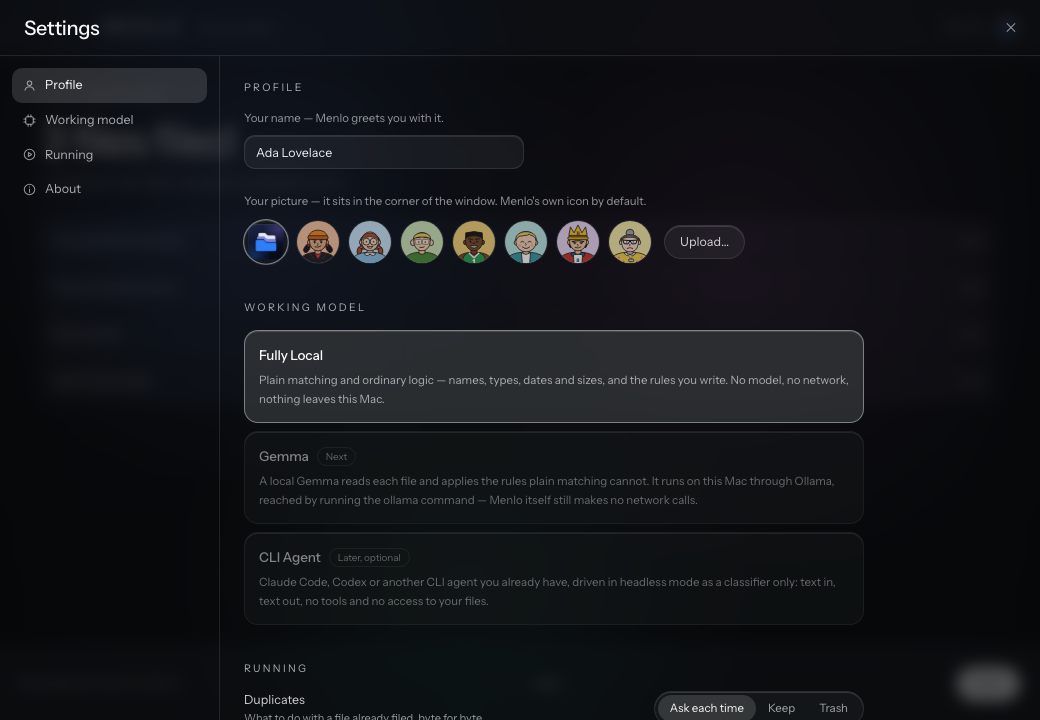
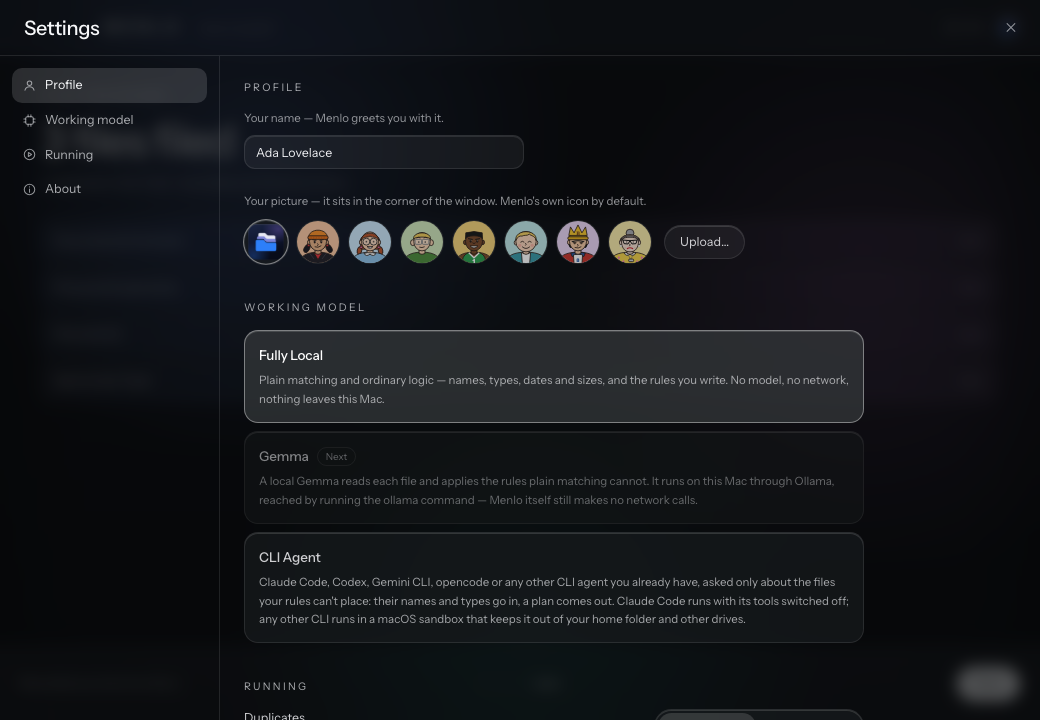
docs(readme): tidy in place, new folders, rule memory, CLI agents and the sandbox
Refreshes the Rules memory and Settings screenshots from the e2e screen run.

Changed region(s): [[0.2462, 0.7639, 0.8, 0.8861], [0.6154, 0.9472, 0.8308, 1.0], [0.2154, 0.9167, 0.4615, 1.0]]

diff --git a/README.md b/README.md
@@ -33,8 +33,13 @@ landing before a single file moves. Every run can be undone.
 
 It works with **no AI at all**. Rules are read with ordinary matching — names, file
 types, dates, sizes — and Menlo tells you plainly when a rule needs a model to apply.
-A local model (Gemma, through Ollama) is next; a CLI agent like Claude Code will be an
-option, never a requirement.
+If you already use a coding CLI — Claude Code, Codex, Gemini CLI, opencode or any other —
+Menlo can ask it about the files your rules can't place. That is optional, never a
+requirement, and a local model (Gemma, through Ollama) is next.
+
+It can also **tidy a folder in place**: point it at Documents → Documents and it files
+the loose files into Documents' own subfolders, and suggests new subfolders for the
+ones nothing fits yet. Every decision you approve teaches it a rule for next time.
 
 ---
 
@@ -42,7 +47,9 @@ option, never a requirement.
 
 - [Install](#install) — download, with Claude Code, or from source
 - [How it works](#how-it-works)
+- [Tidying a folder in place](#tidying-a-folder-in-place)
 - [Writing rules](#writing-rules)
+- [How Menlo remembers](#how-menlo-remembers)
 - [Duplicates and renaming](#duplicates-and-renaming)
 - [Safety](#safety)
 - [Working models](#working-models)
@@ -132,7 +139,8 @@ A run is one pass through four stages. Nothing moves until the third.
 Pick the folders to clear and the folders things can land in. **Add folder** on either
 side takes any folder on your Mac. On first launch Menlo sets itself up from the folders
 you already have — Downloads and Desktop to clear; Documents, Pictures, Movies, Music and
-Developer to file into, with their existing subfolders.
+Developer to file into, with their existing subfolders. A folder can be on both sides at
+once — that tidies it in place (see [below](#tidying-a-folder-in-place)).
 
 ![Choose](docs/screenshots/choose.png)
 
@@ -152,7 +160,9 @@ byte, are raised first — keep them where they are, or send the extra copy to t
 
 ![Duplicates](docs/screenshots/duplicates.png)
 
-Then the preview: every landing, every new name, before anything happens.
+Then the preview: every landing, every new name, before anything happens. When Menlo
+thinks a group of files deserves a folder of its own, the preview offers it there — see
+[New folders](#new-folders).
 
 ![Preview](docs/screenshots/preview.png)
 
@@ -171,6 +181,36 @@ Every run is kept. Send back a whole run, one folder of it, or just what it put 
 Trash. A file you have edited since is left alone rather than overwritten.
 
 ![Runs](docs/screenshots/runs.png)
+
+---
+
+## Tidying a folder in place
+
+Add a folder as both a place to clear and a place to file into — Documents → Documents —
+and Menlo sorts the files lying loose in it:
+
+- **Into its own subfolders.** A loose `Contracts lease.pdf` goes into
+  Documents/Contracts, by your rules or by name. Subfolders you made in Finder since
+  adding the folder are picked up at the start of every run.
+- **Or somewhere better.** A photo sitting in Documents can still go to Pictures.
+- **Or nowhere.** A file nothing fits stays exactly where it is, marked *"Already in
+  Documents; none of its folders fit yet."* A file is never "moved" into the folder it is
+  already in.
+- Files already inside a subfolder are never touched — only the loose ones.
+
+### New folders
+
+What nothing fits yet is grouped, and each group is offered as a new subfolder in the
+preview, with **Create** and **Not now**:
+
+- **A word the names share** — three invoice PDFs → *Documents / Invoice*.
+- **A CLI agent's suggestion**, when you use one, for files it thinks belong together.
+- **A kind of file out of place** — three or more images loose in Documents →
+  *Documents / Images*.
+
+**Create** makes the folder and files the group into it. Nothing is created until you
+press it. A folder made from a shared word is also remembered as a rule, so next time
+those files go there on their own.
 
 ---
 
@@ -194,7 +234,12 @@ honest gap today: the most natural phrasing, like *"Invoices go here"* or *"Tax 
 has no cue word yet, so it waits for a model. Say *"anything named invoice"* instead,
 until that lands (see [Roadmap](#roadmap)).
 
-Rules Memory shows every rule, by folder, with what Menlo understood from it:
+**Rules memory** lists every folder in your home folder — Documents, Pictures, Movies,
+Music, Downloads, Desktop and the rest — with their subfolders inside. Main folders
+fold open and closed; folders Menlo already files into start open. Each folder shows the
+rules you wrote, what Menlo understood from each, and the rules it has learned. Writing
+a rule for a folder Menlo does not use yet adds it. The list is read from disk only while
+the page is open, and reading it changes nothing.
 
 ![Rules memory](docs/screenshots/rules.png)
 
@@ -203,6 +248,30 @@ agreement"* reaches Documents/Contracts even though the file is a PDF. A rule wi
 a date, size or age can only choose *between the subfolders of the folder a file is
 already going to*, so *"anything dated 2026"* on Documents/Invoices 2026 never pulls in
 your 2026 holiday photos.
+
+---
+
+## How Menlo remembers
+
+Every run you approve can teach Menlo a pattern rule — `the name matches *invoice*` →
+Documents/Invoices — which then files those files with no model and no question. A
+learned rule outranks the built-in type map, so a careless one would do real damage
+(*"every PDF → Finance"*, learned from one invoice). So each one is checked before it is
+kept:
+
+- **Too broad is refused.** A bare common type (`.pdf`, `.jpg`) or a pattern with no
+  distinctive word (`IMG_*`) is never learned.
+- **Your latest decision wins.** The same pattern approved into a different folder moves
+  the old rule rather than keeping two that disagree.
+- **No repeats.** A pattern an existing rule already catches is not added.
+- **Alike rules merge.** Three or more learned rules for one folder that share a word
+  fold into one: `Invoice_Aug*`, `Invoice_Sep*` and `invoice-2026*` become `*invoice*`.
+- **Shared words are noticed.** When a CLI agent places two or more files with the same
+  distinctive word in one folder and you approve them, that word becomes the rule.
+- Only moves you approved as proposed count; anything you leave unticked teaches nothing.
+
+Learned rules appear in Rules memory under **Learned from what you approved**, each with
+**Forget**.
 
 ---
 
@@ -243,9 +312,17 @@ run restores the original name.
   unless you opt in. Paths are checked after symlink resolution, and again right before
   each move.
 - **No network code.** The Rust core makes no network calls; CI fails the build if an
-  HTTP client is ever added to it.
+  HTTP client is ever added to it. A CLI agent you choose talks to its own provider, in
+  its own process — Menlo never does.
 - **A model can never name a path.** When one is used, it picks a folder *key* from a
-  list Menlo supplied; Menlo maps the key to a folder you added.
+  list Menlo supplied; Menlo maps the key to a folder you added. Its whole reply is
+  rejected if a single entry fails a check.
+- **A CLI agent sees names, never contents.** It is sent the names, types, sizes and dates
+  of the files your rules could not place — never file contents, never where they live.
+  Claude Code is run with every tool switched off. Any other CLI runs inside a macOS
+  sandbox (`sandbox-exec`) that blocks your home folder and other drives, apart from its
+  own settings and install folders — so a file named to trick it into opening `~/.ssh`
+  gets *Operation not permitted*.
 
 ---
 
@@ -261,6 +338,28 @@ Chosen in Settings.
 
 ![Settings](docs/screenshots/settings.png)
 
+### Using a CLI agent
+
+Choose **CLI Agent** in Settings and Menlo lists the CLIs it knows — Claude Code, Codex
+CLI, Gemini CLI, opencode, Qwen Code and Cursor Agent — with where each was found on
+this Mac. **Other command** takes any CLI that reads a prompt on standard input and
+prints its answer (e.g. `qwen -p`); it is run directly, never through a shell.
+**Check it works** sends a tiny test prompt with nothing about your files in it.
+
+On a run, your rules go first. Only what they could not place is sent, in batches, and
+the answers are folded into the preview:
+
+- A confident answer is ticked; a guess (below 70% confidence) is shown but left
+  unticked, so it stays put unless you tick it.
+- The preview says what the CLI did — *"Claude Code placed 12 of the 15 files the rules
+  couldn't"* — or why it could not run, in which case the plan is your rules' moves only.
+- Menlo finds CLIs installed through Homebrew, npm, bun or `~/.local/bin` even when it is
+  opened from the Dock, where macOS hides your terminal's `PATH`.
+
+Gemini CLI, opencode, Qwen Code and Cursor Agent are supported but have so far been
+tested less than Claude Code and Codex. If one needs a settings folder the sandbox does
+not open, the preview shows its error and the run falls back to your rules.
+
 ---
 
 ## Development
@@ -269,7 +368,7 @@ Chosen in Settings.
 npm install
 npm run tauri dev          # the app, with hot reload
 
-cargo test  --manifest-path src-tauri/Cargo.toml   # 134 Rust tests
+cargo test  --manifest-path src-tauri/Cargo.toml   # the Rust tests
 npm run typecheck && npm test                      # TypeScript + unit tests
 npm run test:e2e                                   # the whole flow in a browser
 ```
@@ -282,6 +381,10 @@ Worth knowing:
   checking every file's contents by hash.
 - **`e2e/`** runs the real window against a stubbed backend and asserts what it sends.
   `e2e/screens.spec.ts` also captures every screen into `test-results/screens/`.
+- **Live CLI tests** are opt-in, because they spend a real CLI's quota. They sort sample
+  files, and check the sandbox stops a CLI told to read a decoy in your home folder:
+  `MENLO_LIVE_AGENT=codex cargo test --manifest-path src-tauri/Cargo.toml --lib live -- --ignored`
+  (or `claude`).
 - The app icon and installer artwork are drawn in `design/brand/` and rendered by
   `design/brand/build.sh`. The results are committed, so a normal build needs nothing
   extra.
@@ -301,9 +404,10 @@ in [docs/design/](docs/design/HANDOFF.md).
   *"anything named invoice"*.
 - **A menu-bar agent** — scheduled runs and a notification when a run finishes. Both are
   in Settings already, switched off until this lands.
-- **Learning from your approvals** — every choice you confirm is labelled data. A small
-  decision model such as [Laya](https://laya.convaiinnovations.com/), fine-tuned on it,
-  could replace the model step entirely.
+- **A decision model trained on your approvals** — Menlo already turns approvals into
+  rules; every choice you confirm is also labelled data. A small decision model such as
+  [Laya](https://laya.convaiinnovations.com/), fine-tuned on it, could replace the model
+  step entirely.
 - **A notarised build**, so no right-click is needed on first open.
 
 ---
